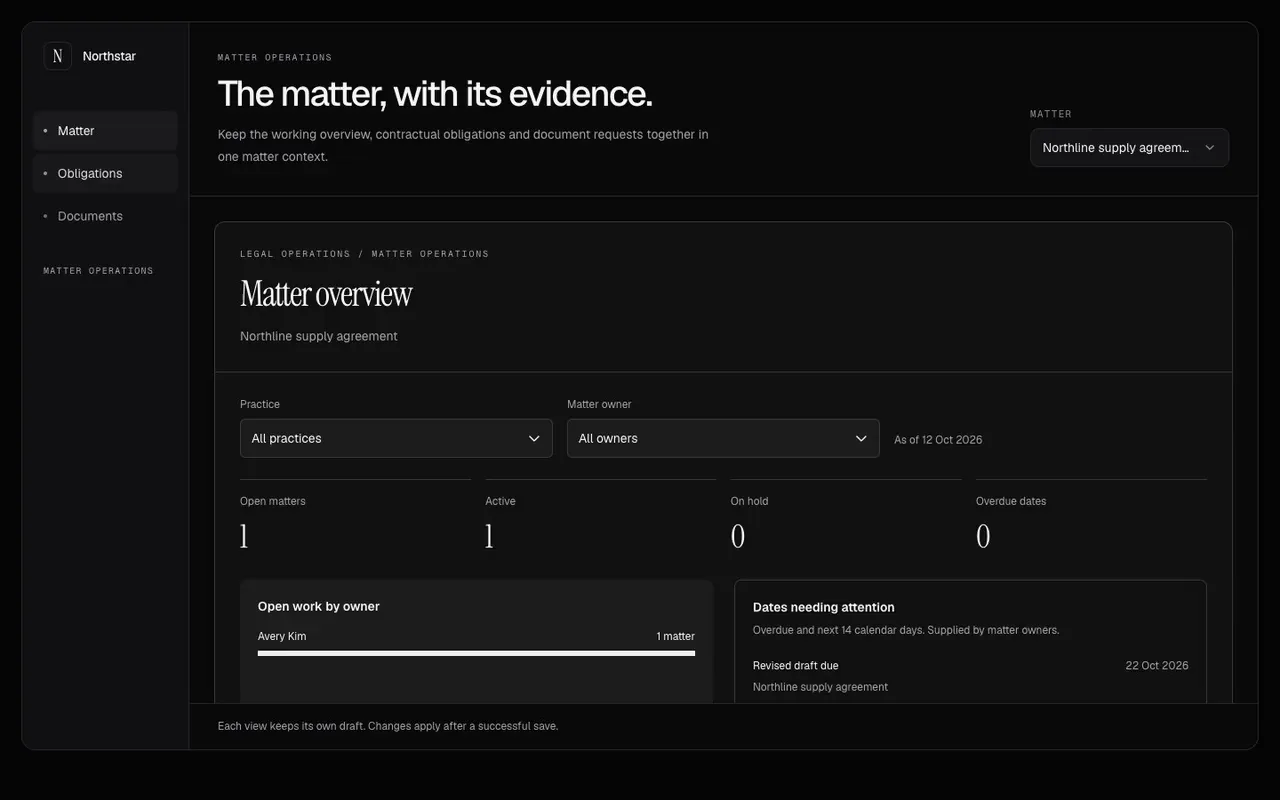
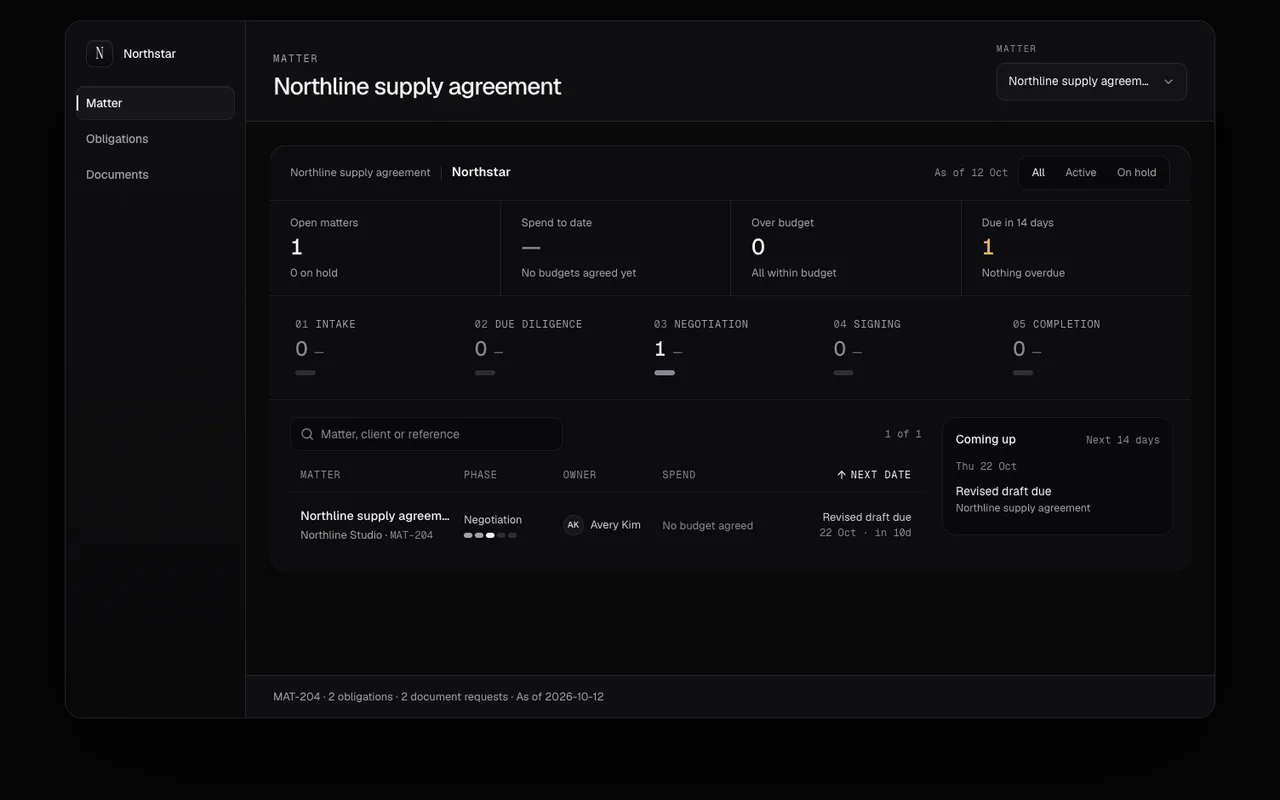
Verify legal workspace states and refresh its reviewed poster

diff --git a/docs/review/STATUS.md b/docs/review/STATUS.md
@@ -1,6 +1,6 @@
 # Review status
 
-201 components are rebuilt (or, for a few, polished), verified and committed. For each: whether its demo video
+202 components are rebuilt (or, for a few, polished), verified and committed. For each: whether its demo video
 needs re-recording, whether its poster is current, and the state of its browser regression probe.
 
 - **Video**: `new` means `public/previews/<slug>.mp4` still shows the old version. Re-record serially on a quiet machine:
@@ -21,9 +21,9 @@ Pagination phone capture has 20 outline-edge pixels changed and is visually appr
 root/isolated types and all **1,066 unit tests** pass. The Worker dry run passes unchanged limits at
 **2,655,633 router bytes, 57,504,702 runtime bytes and 4,778,914 compressed source-map bytes**. Both source
 snapshots and standing change status remain fixed through the release checks. No deployment was performed.
-Commerce, Fashion and Financial Report have completed their block reviews. Their current checks are recorded
-below; the next complete batch release checkpoint remains pending. The remaining inventory is **8 blocks,
-59 older probes and 120 films**. Allocation Chart needs a new film after its full-value readout changed.
+Commerce, Fashion, Financial Report and Legal Workspace have completed their block reviews. Their current
+checks are recorded below; the next complete batch release checkpoint remains pending. The remaining
+inventory is **7 blocks, 59 older probes and 121 films**. Allocation Chart needs a new film after its full-value readout changed.
 
 ## Previous workspace/input checkpoint (19 October 2026)
 
@@ -380,3 +380,4 @@ See [the handoff checkpoint](HANDOFF_TASKS.md#8-final-release-checks) for revisi
 | `block-commerce-workspace` | new | current | Commerce Workspace now uses compact view-specific headings, a target/order overview that expands across wide containers and one store identity throughout Returns. Modified order links preserve browser intent; empty copy and disabled selectors name their period/order context. Separate period/order drafts, retry, pending requests across period changes, unavailable handlers, arriving data and phone action reachability pass. Its 33-mount source review, 32 accessibility audits, six widths and all 46 reviewed state/entrance captures pass. The registered workflow retains the contrast and narrow-card dependency regressions. Normal-motion headings must finish visibly in the actual Next preview. All eight block metadata replays pass; Commerce verifies item/reason changes, editing, review and the final read-only request receipt. Controls, official audit, strict registry, root/all-eleven-block types and all 1,066 unit tests pass. The public API and Pro dependency boundary stay unchanged. Its reviewed settled Next poster is current. The film fails unchanged timing guards (source gap 37ms, delivery 106.73ms and moving-frame p95 25.93ms; one 109.45ms moving-frame gap); the old film is retained and rejected raw evidence stays local. The next complete batch release checkpoint remains pending. |
 | `block-fashion-workspace` | current | current | Fashion Workspace now shares its brand across all three tools, uses compact view-specific headings and names empty collections explicitly. Offline weekly histories reconcile to the existing sold-unit ledgers. Retained planning drafts, failed-save retry after a collection change, original typed callback contexts, missing writers, arriving data and keyboard actions at 320/390px pass. Narrow plan actions wrap without splitting words, and readiness text keeps room beside its ring. Compact metrics stack so complete currency amounts remain readable. Its 29-mount source review, forty accessibility audits, six widths and 54 reviewed state/entrance captures pass with frozen sources. Calendar write ownership and merchandising stock-cover contrast regressions remain registered. The exact metadata replay adds a fifteenth style and reaches the saved 530-unit, £17,760.00 plan receipt. Next controls and official audit, strict registry, root/all-eleven-block types and all 1,066 tests pass. Public callback contracts and Pro boundaries remain unchanged. Its reviewed 5.0s film and paired Next poster retain the complete 820px workspace in measured 1400×940 framing: source gap 57ms, delivery 49.62ms and moving-frame p95 28.37ms, with no stalls and unchanged guards. The next complete batch release checkpoint remains pending. |
 | `block-financial-report` | new | current | Financial Report now uses a compact period-specific workspace, exact headline and cost amounts, a real cost-detail anchor and persistent export feedback. Full currency values preserve the final minor unit at the safe-integer boundary, including negative pennies, across screen totals, table cells, allocation labels, CSV and print. Raw minor units retain numeric sorting and allocation weights; abbreviated chart summaries remain explicit. Keyboard period selection, empty and arriving reports, no costs, independent instances, native CSV/print, failed export retry and retired report/currency/brand/unmount replies pass its 43-mount source review, forty accessibility audits, six widths and 54 reviewed state/entrance captures. Long-amount phone checks and stable chart legend/focus regressions pass. A single allocation view has no redundant grouping chooser; the exact total/focused value uses one stable readout below the ring. The exact September replay reaches the visible export receipt with the £8,700.00 software line intact. Next workflow, controls, official audit and measured full-frame captures pass with strict registry, root/all-eleven-block types and all 1,066 tests. Public callbacks and Pro boundaries remain unchanged. Its reviewed paired Next poster is current. The film fails unchanged timing guards (source gap 22ms, delivery 649.70ms and moving-frame p95 24.42ms); the previous movie is retained and raw rejection evidence stays local. The next complete batch release checkpoint remains pending. |
+| `block-legal-workspace` | new | current | Legal Workspace now uses compact current-matter chrome, a shared brand/reporting day and useful context counts. Its matter portfolio, obligation evidence and stamped document requests stay in retained panels. Empty and arriving contexts, unique IDs, keyboard navigation, concurrent writes in different matters, hidden failures, exact retry payloads, retained File identity, removed-matter late replies, independent instances, long phone copy and live reduced motion pass 63 source mounts, 82 accessibility audits, six widths and 96 reviewed state/entrance captures. Missing writers keep drafts available without inventing receipt; inbox snapshots protect retries from host mutation. The table keeps its cells outside disclosure buttons, and receipt/revision text remains readable. Invalid or impossible reference dates fall back once to a coherent UTC reporting day. Northline report evidence cites actual DOC-404; Harbour's handover cites accepted DOC-403. The exact metadata replay records the report and settles on its completion stamp. Next workflow, controls, official audit and six measured Next/production states pass with strict registry, root/all-eleven-block types and all 1,066 tests. Public callback and licence boundaries remain unchanged. Its reviewed paired Next poster is current. The film fails unchanged timing guards (source gap 21ms, delivery 439.76ms and moving-frame p95 17.63ms); the previous movie is retained and raw rejection evidence stays local. The next complete batch release checkpoint remains pending. |

diff --git a/docs/review/HANDOFF_TASKS.md b/docs/review/HANDOFF_TASKS.md
@@ -4,7 +4,7 @@ Self-contained work items from the paused review of the October component additi
 and how to know it's done. Pick any of them up independently. Background, briefs and tooling are in `docs/review/`
 (start with `README.md`); per-component state is in `docs/review/STATUS.md`.
 
-## Follow-up progress (17–19 October 2026)
+## Follow-up progress (17–20 October 2026)
 
 - Task 3.1: resolved evidence chain verification and manifest flags. The dedicated browser probe passes, including missing hashes and rejected exports. The hash group’s invalid ARIA label is fixed, and isolated dark/light accessibility audits pass. The Next preview rerun also passes.
 
@@ -437,7 +437,9 @@ from changing subsequent block tests. Original failures and diagnostics remain l
 
 - Legal empty-table follow-up: empty and filtered matter results now use a real row and spanning cell when phone headers are hidden. The original composed 320px ARIA failure is preserved. Six both-theme phone mounts, six accessibility audits and all reviewed captures pass, together with the complete standalone Next workflow, strict registry, root/all-eleven-block types and all 1,066 unit tests. The full Legal block review remains in progress.
 
-## 1. Re-record demo videos (120 components)
+- Task 7 (20 October): Legal Workspace now uses compact current-matter chrome, a shared brand/reporting day and useful context counts. Its matter portfolio, obligation evidence and stamped document requests stay in retained panels. Empty and arriving contexts, unique IDs, keyboard navigation, concurrent writes in different matters, hidden failures, exact retry payloads, retained File identity, removed-matter late replies, independent instances, long phone copy and live reduced motion pass 63 source mounts, 82 accessibility audits, six widths and 96 reviewed state/entrance captures. Missing writers keep drafts available without inventing receipt; inbox snapshots protect retries from host mutation. The table keeps its cells outside disclosure buttons, and receipt/revision text remains readable. Invalid or impossible reference dates fall back once to a coherent UTC reporting day. Northline report evidence cites actual DOC-404; Harbour's handover cites accepted DOC-403. The exact metadata replay records the report and settles on its completion stamp. Next workflow, controls, official audit and six measured Next/production states pass with strict registry, root/all-eleven-block types and all 1,066 tests. Public callback and licence boundaries remain unchanged. Its reviewed paired Next poster is current. The film fails unchanged timing guards (source gap 21ms, delivery 439.76ms and moving-frame p95 17.63ms); the previous movie is retained and raw rejection evidence stays local. Seven blocks, 59 older probes and 121 films remain. The rejected raw capture also ends before the expected completion receipt; its full live replay passes separately. The next complete batch release checkpoint remains pending.
+
+## 1. Re-record demo videos (121 components)
 
 Every rebuilt component's poster is current but its catalogue film (`public/previews/<slug>.mp4`) still shows the old
 version. Record them one at a time on an otherwise idle machine; the recorder rejects frame stalls under load.
@@ -456,6 +458,7 @@ slug or per small group). Notes:
 
 Slugs:
 
+`block-legal-workspace`
 `chart-allocation`
 `block-financial-report`
 `block-commerce-workspace`
@@ -592,9 +595,9 @@ All nine parked rebuilds are shipped in both repos. Their original `_wip/<slug>`
 | finance-budget-variance | Completed 17 October: Next probe, dark/light accessibility, responsive and entrance/state captures, live demo and refreshed poster pass. |
 | finance-cashflow-dashboard | Completed 17 October: weekly balance and in/out bars, movable payments, independent pending saves, invalid-data guards, selected-week list geometry, Next probe/demo, both-theme accessibility, responsive/state/entrance captures and refreshed poster pass. |
 
-## 7. Continue the review (8 blocks)
+## 7. Continue the review (7 blocks)
 
-Same process as the 201 already done: hold each to the first ~100 components' standard. Briefs:
+Same process as the 202 already done: hold each to the first ~100 components' standard. Briefs:
 `docs/review/REVIEW_BRIEF.md`, `docs/review/SUITE_BRIEF.md` for industry components, suite languages in
 `docs/review/suites/`. Work newest first, about four components per batch, and verify each (build, tsc, tests,
 check-component, your own captures of states and mid-entrance frames, a refreshed poster, a rewritten pro-50 probe for
@@ -638,12 +641,12 @@ reference; the reviewed dark capture differs only in eight pixels around its Pai
 registry, root/eleven-block types and all 1,066 unit tests pass. The private fix is `87da4af`. The full
 Commerce completed its full review with this dependency; ten other blocks remain open.
 
-- **Commerce, Fashion and Financial Report** are reviewed. Keep these blocks compatible with their rebuilt parts.
+- **Commerce, Fashion, Financial Report and Legal Workspace** are reviewed. Keep these blocks compatible with their rebuilt parts.
 - **Smaller components** (#151–179) are reviewed.
-- **Blocks**, after their parts: eight of the eleven published `block-*` components remain. Commerce, Fashion and Financial Report are reviewed. Many parts changed their look and some their props;
+- **Blocks**, after their parts: seven of the eleven published `block-*` components remain. Commerce, Fashion, Financial Report and Legal Workspace are reviewed. Many parts changed their look and some their props;
   re-check each block composes well with the rebuilt parts and still reads as one product. The earlier count of 12 was stale: both source repositories and all published `kind: "block"` metadata contain these eleven, with every declared dependency available.
 
-`block-legal-workspace`, `block-meetings-workspace`, `block-music-workspace`,
+`block-meetings-workspace`, `block-music-workspace`,
 `block-people-workspace`, `block-saas-dashboard`, `block-saas-landing`,
 `block-team-workspace`, `block-workspace-settings`.
 
